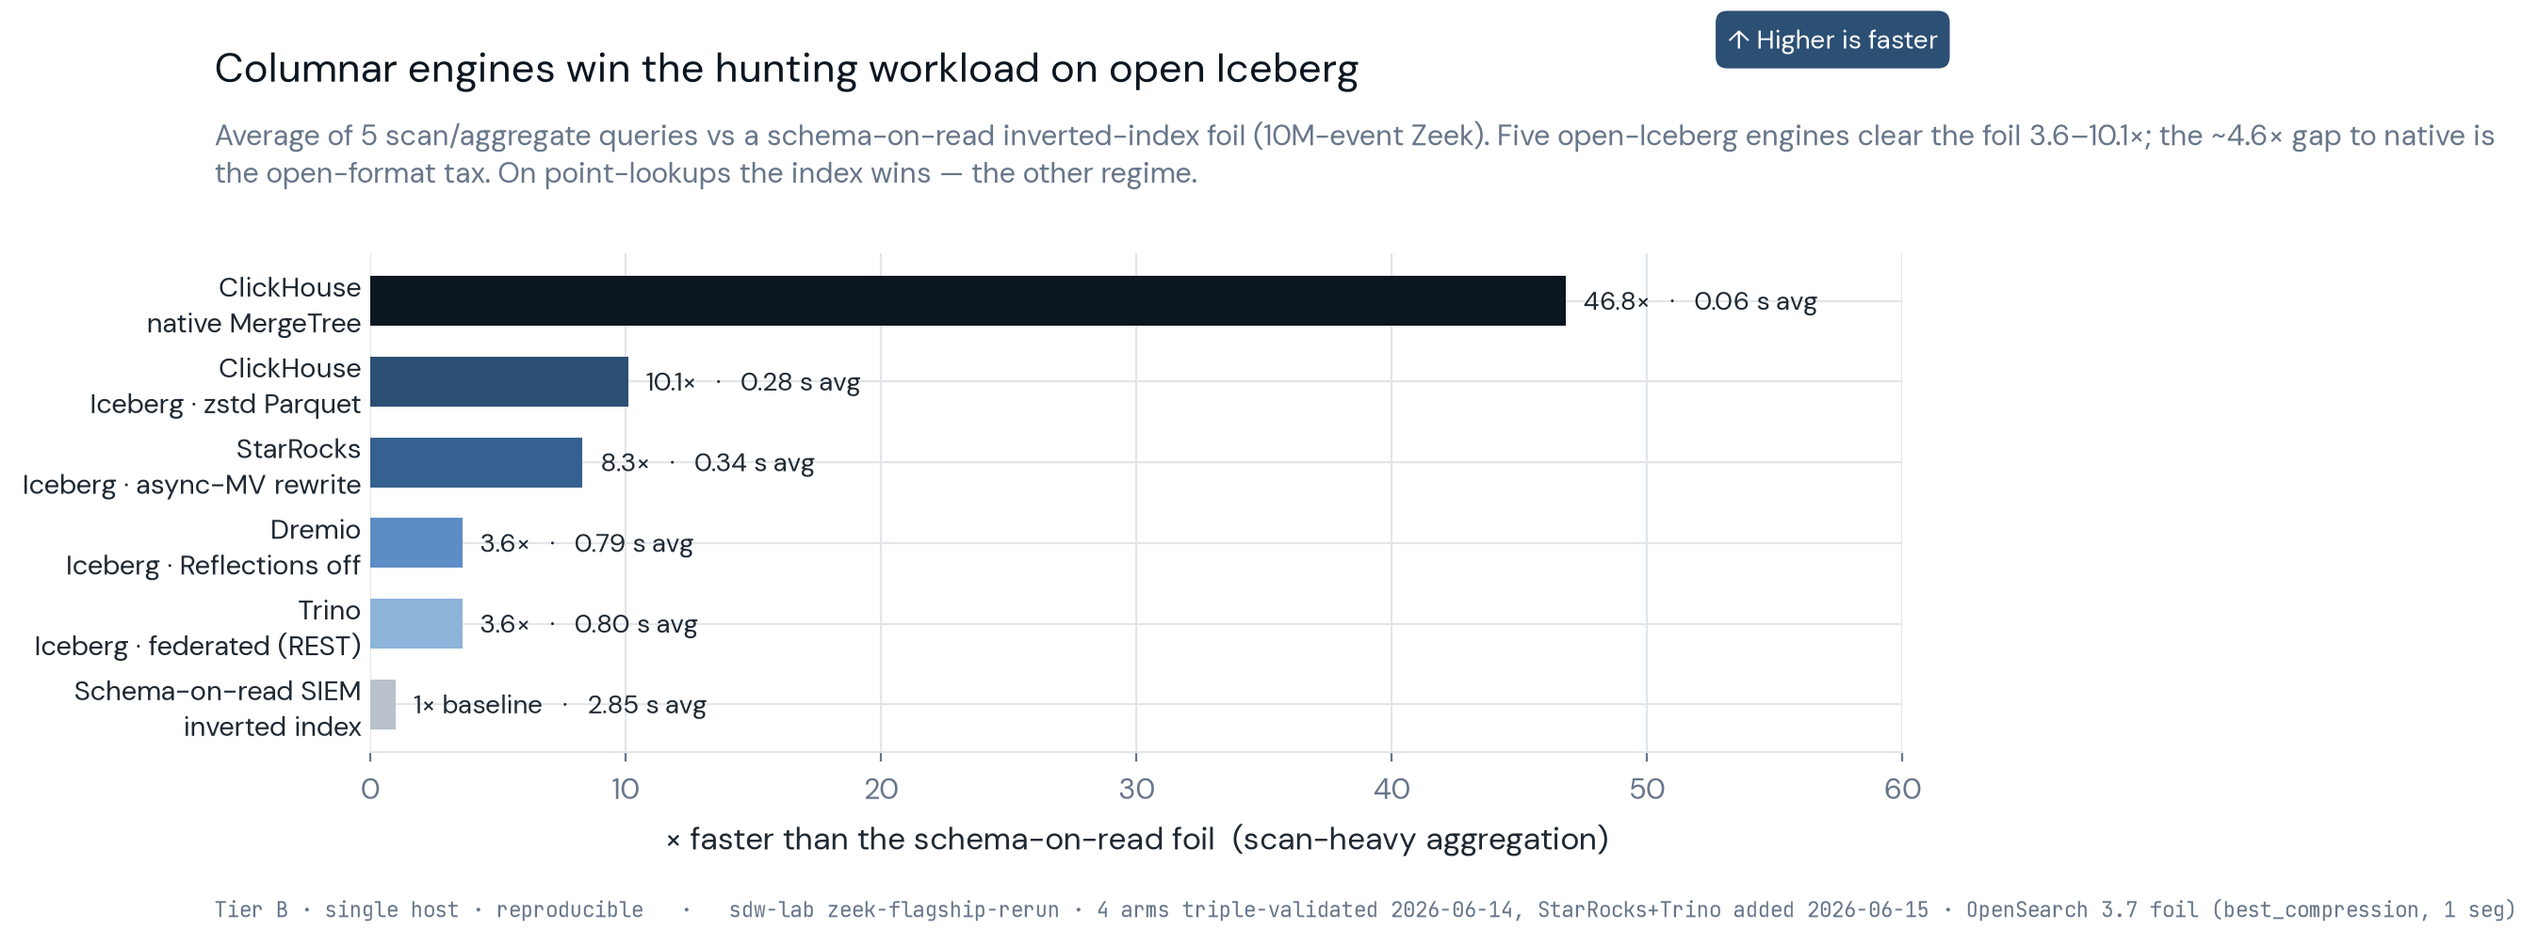
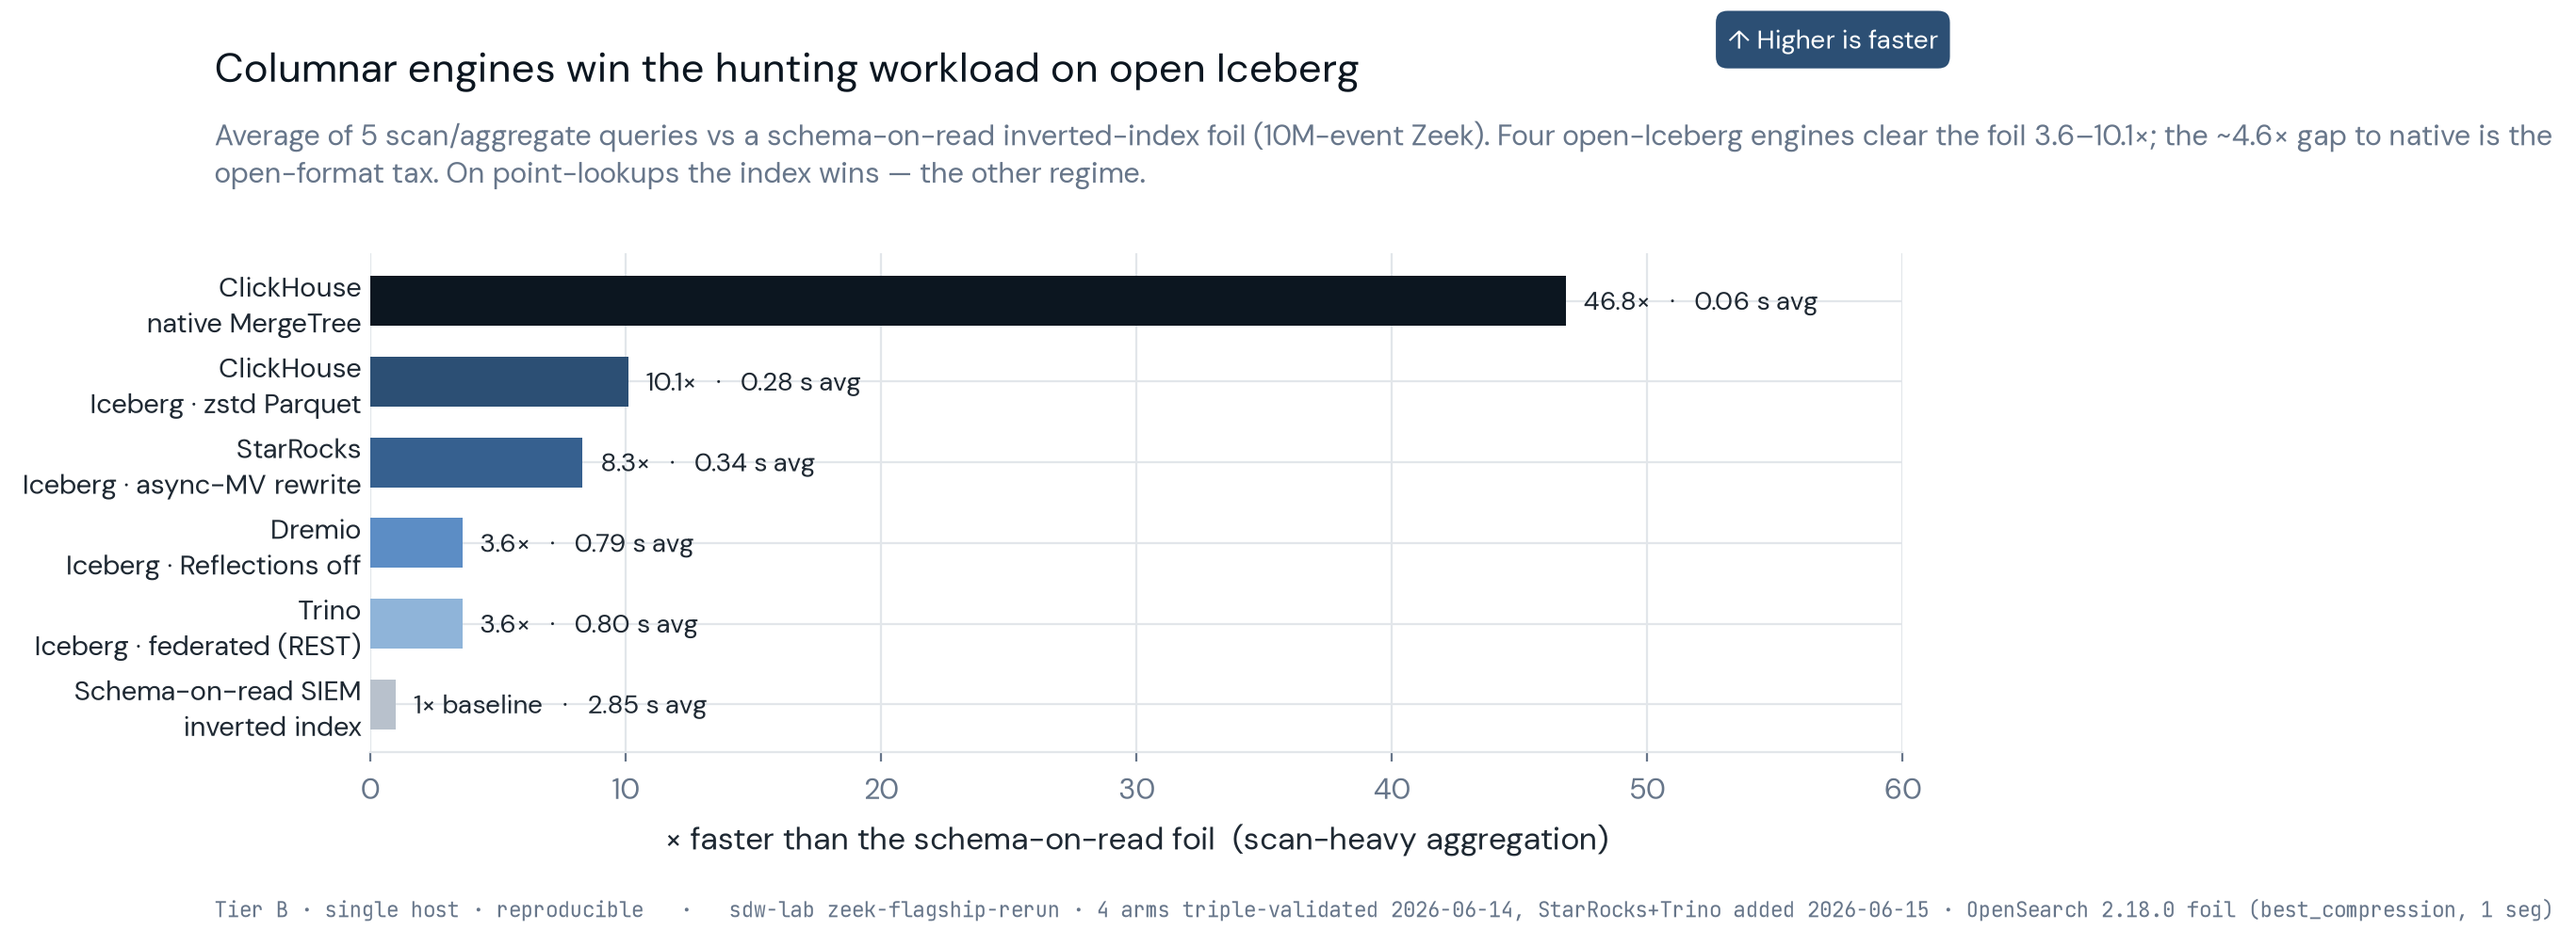
🔧 Engine chart: fix subtitle (Five→Four open-Iceberg engines) + foil version (OpenSearch 3.7→2.18.0)
Pre-deploy coherence workflow re-derived all 6 arms from the lab RESULTS primaries
(all numbers reconcile, no mismatch) and caught two caption errors:
- "Five open-Iceberg engines clear the foil 3.6–10.1×" → FOUR (Trino/Dremio/
  StarRocks/CH-Iceberg are the open-Iceberg arms in that range; the 5th clearer is
  ClickHouse-native 46.8×, which is proprietary, not open-Iceberg).
- foil version "OpenSearch 3.7" → "OpenSearch 2.18.0" (env.json/RESULTS pin 2.18.0;
  latency 2.854s unchanged). Open-format tax recomputed 4.627 (~4.6×) ✓.

diff --git a/charts/_r29_engine_two_regime.py b/charts/_r29_engine_two_regime.py
@@ -31,9 +31,9 @@ ARMS = [
 fig, ax = cs.canvas(
     "Columnar engines win the hunting workload on open Iceberg",
     sub=("Average of 5 scan/aggregate queries vs a schema-on-read inverted-index foil (10M-event Zeek). "
-         "Five open-Iceberg engines clear the foil 3.6–10.1×; the ~4.6× gap to native is the open-format tax. "
+         "Four open-Iceberg engines clear the foil 3.6–10.1×; the ~4.6× gap to native is the open-format tax. "
          "On point-lookups the index wins — the other regime."),
-    source="sdw-lab zeek-flagship-rerun · 4 arms triple-validated 2026-06-14, StarRocks+Trino added 2026-06-15 · OpenSearch 3.7 foil (best_compression, 1 seg)",
+    source="sdw-lab zeek-flagship-rerun · 4 arms triple-validated 2026-06-14, StarRocks+Trino added 2026-06-15 · OpenSearch 2.18.0 foil (best_compression, 1 seg)",
     tier="Tier B · single host · reproducible",
     figsize=(9.4, 5.0), bottom=0.21, top=0.74,
 )
